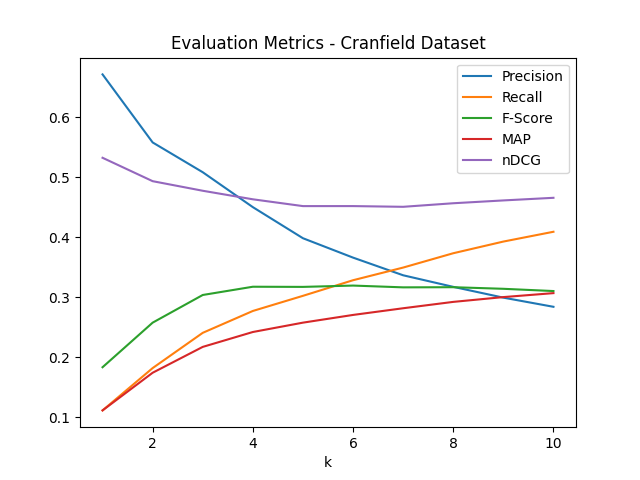
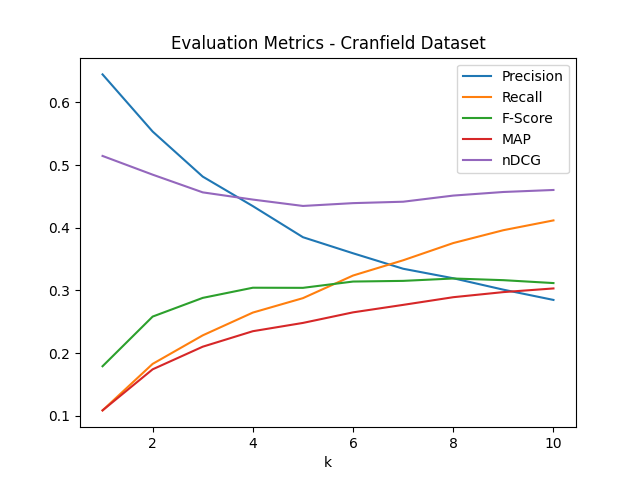
changed to normal tf-idf

diff --git a/Assignment 2/informationRetrieval.py b/Assignment 2/informationRetrieval.py
@@ -46,9 +46,9 @@ class InformationRetrieval():
 					total_words += 1
 			
 			# normalize tf value
-			if total_words != 0:
-				for term in self.tf[doc_id]:
-					self.tf[doc_id][term] /= total_words
+			# if total_words != 0:
+			# 	for term in self.tf[doc_id]:
+			# 		self.tf[doc_id][term] /= total_words
 			
 
 		# Computation of idf values
@@ -62,7 +62,7 @@ class InformationRetrieval():
 					self.idf[term] = 1
 		# converts to idf smooth values
 		for term in self.idf:
-			self.idf[term] = 1 + np.log(num_docs/(1 + self.idf[term]))
+			self.idf[term] = np.log(num_docs/(self.idf[term]))
 
 		# Computation of tf_idf values
 		for doc_id in docIDs:
@@ -132,7 +132,7 @@ class InformationRetrieval():
 				total_words += 1
 			# normalize tf and mul by idf
 			for term in query_rep:
-				query_rep[term] /= total_words
+				# query_rep[term] /= total_words
 				query_rep[term] *= self.idf[term]
 			
 			# compute cos sim scores
